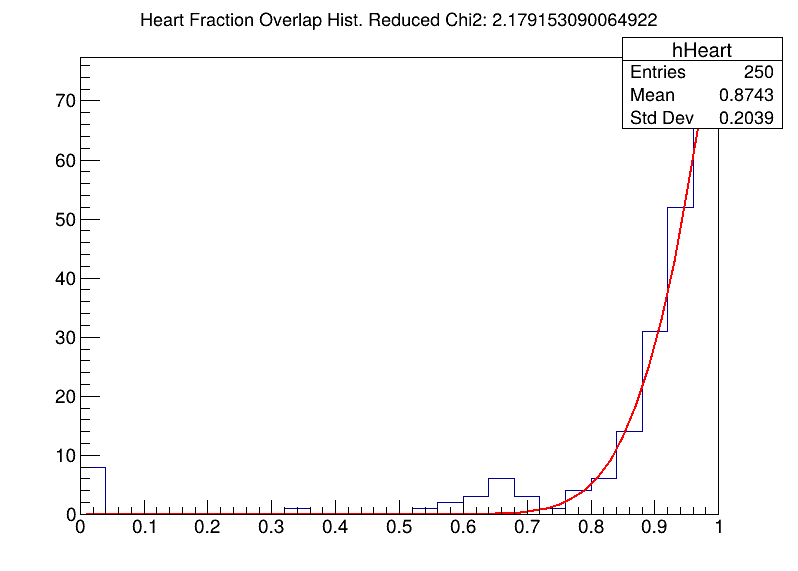
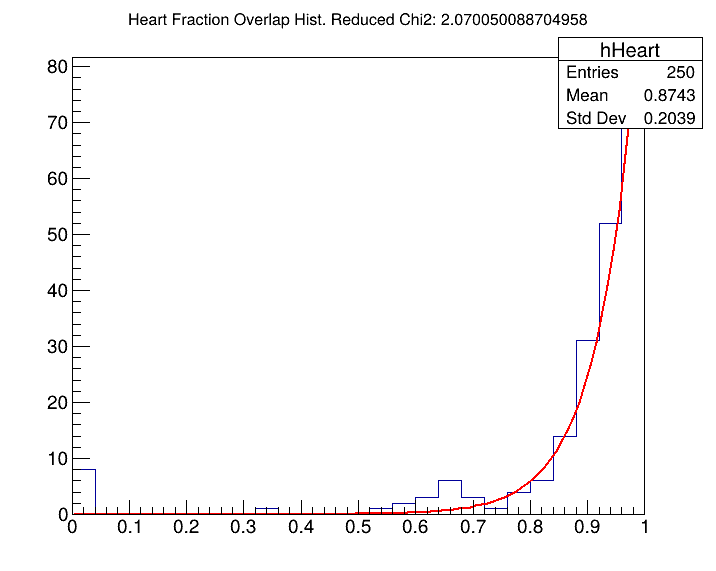
redid with e^-(1-x) fit

diff --git a/sspaner_histograms.py b/sspaner_histograms.py
@@ -20,6 +20,10 @@ all_data_df["Organ_Clean"] = all_data_df["Organ"].replace(organ_name_dict)
 all_data_df = all_data_df[all_data_df["Unnamed: 0"] != 0] #elim control ct for analysis"
 all_data_df = all_data_df.rename(columns={"Unnamed: 0":"CT#"})
 
+fit_function = ROOT.TF1("exp1","[0] * TMath::Exp(-[1]*(1-x))",0,1)
+fit_function.SetParNames("Norm", "Lambda")
+fit_function.SetParameters(300,5)
+
 full_hist = ROOT.TH1F("h",f"Total Fraction Overlap",25,0,1)
 hists = []
 organs = []
@@ -30,7 +34,7 @@ for organ, df_organ in all_data_df.groupby("Organ_Clean"):
             hist.Fill(val)
             full_hist.Fill(val)
     print(f'{organ} fit results')
-    fit_result = hist.Fit("gaus", "RS")
+    fit_result = hist.Fit(fit_function, "RS")
     try: 
         chi2 = fit_result.Chi2()
         ndf = fit_result.Ndf()
@@ -43,7 +47,7 @@ for organ, df_organ in all_data_df.groupby("Organ_Clean"):
     organs.append(organ)
 
 print('all data fit result')
-full_hist_fit_result = full_hist.Fit("gaus", "RS")
+full_hist_fit_result = full_hist.Fit(fit_function, "RS")
 
 chi2 = full_hist_fit_result.Chi2()
 ndf = full_hist_fit_result.Ndf()
